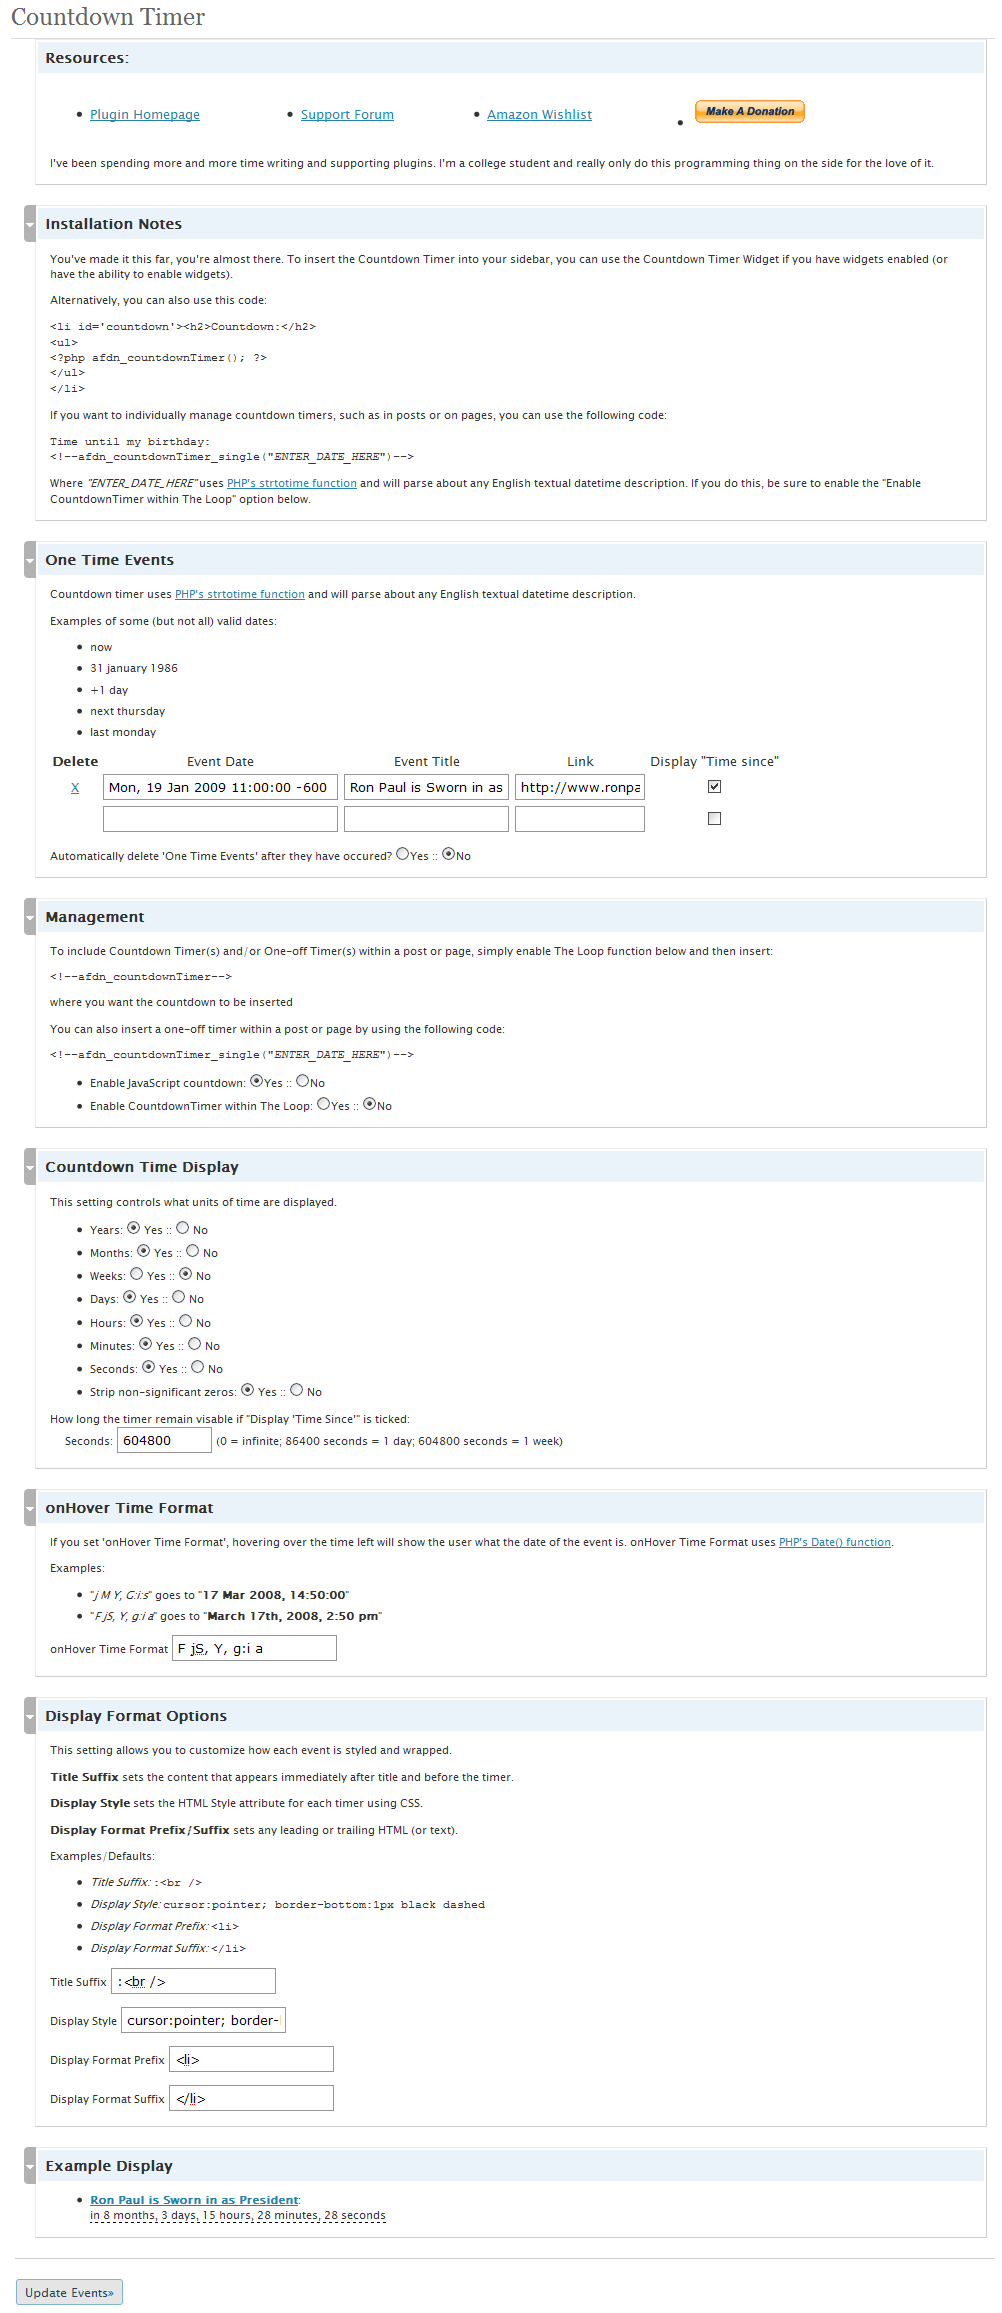
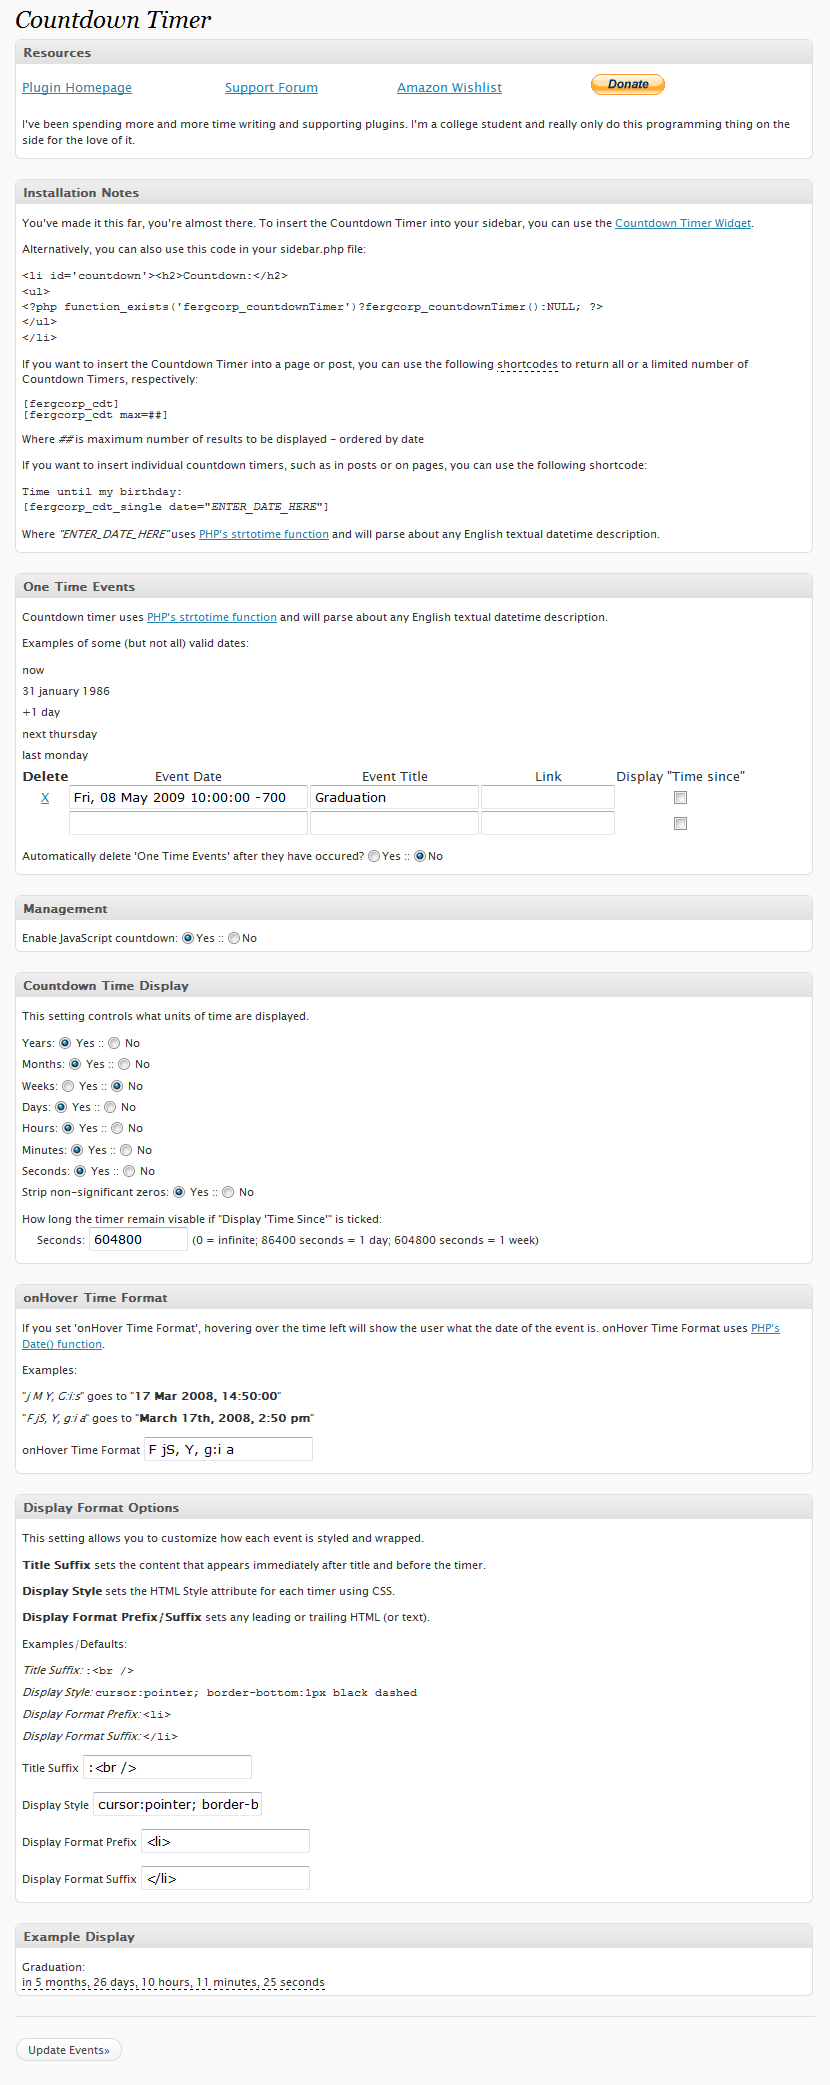
Version 2.3 release. Enjoy!
git-svn-id: https://plugins.svn.wordpress.org/countdown-timer/trunk@74805 b8457f37-d9ea-0310-8a92-e5e31aec5664

Changed region(s): [[0.0, 0.0, 0.994, 0.9976], [0.8133, 0.3741, 0.8434, 0.4053], [0.4518, 0.8106, 0.4819, 0.8417]]

diff --git a/fergcorp_countdownTimer_java.js b/fergcorp_countdownTimer_java.js
@@ -1,6 +1,6 @@
 /*******************************************************************************\
 Countdown Timer JavaScript Module
-Version 2.2.9.5 (kept in step with fergcorp_countdownTimer.php)
+Version 2.3 (kept in step with fergcorp_countdownTimer.php)
 Copyright (c) 2007-2008 Andrew Ferguson
 ---------------------------------------------------------------------------------
 This program is free software; you can redistribute it and/or

diff --git a/afdn_countdownTimer.php b/afdn_countdownTimer.php
@@ -3,7 +3,7 @@
 Plugin Name: Countdown Timer
 Plugin URI: http://www.andrewferguson.net/wordpress-plugins/countdown-timer/
 Plugin Description: Add template tags and widget to count down or up to the years, months, weeks, days, hours, minutes, and/or seconds to a particular event.
-Version: 2.2.9.7
+Version: 2.3
 Author: Andrew Ferguson
 Author URI: http://www.andrewferguson.net
 
@@ -229,7 +229,7 @@ Foundation, Inc., 51 Franklin Street, Fifth Floor, Boston, MA 02110-1301, USA.
                                         
                                         <p><?php printf(__("If you want to insert the Countdown Timer into a page or post, you can use the following <abbr %s %s>shortcodes</abbr> to return all or a limited number of Countdown Timers, respectively:", 'afdn_countdownTimer'), "title='".__('A shortcode is a WordPress-specific code that lets you do nifty things with very little effort. Shortcodes can embed files or create objects that would normally require lots of complicated, ugly code in just one line. Shortcode = shortcut.', 'afdn_countdownTimer')."'", "style='cursor:pointer; border-bottom:1px black dashed'" ); ?></p>
                                    			<code>
-													[fergcorp_cdt]<br />
+													[fergcorp_cdt]<br /><br />
                                                     [fergcorp_cdt max=##]
 											</code>
                                         <p><?php _e("Where <em>##</em> is maximum number of results to be displayed - ordered by date.", 'afdn_countdownTimer'); ?></p>   
@@ -276,6 +276,7 @@ Foundation, Inc., 51 Franklin Street, Fifth Floor, Boston, MA 02110-1301, USA.
 														<td><input type="text" size="30" name="oneTimeEvent_date<?php echo $oneTimeEvent_count; ?>" value="<?php if($fergcorp_countdownTimer_dates["oneTime"][$i]["date"] != "")echo gmdate("D, d M Y H:i:s", $fergcorp_countdownTimer_dates["oneTime"][$i]["date"] + (get_option('gmt_offset') * 3600))." ".(get_option('gmt_offset')>="0"?"+":NULL).(get_option('gmt_offset')=="0"?"00":NULL).(get_option('gmt_offset')*100); ?>" /></td>
 														<td><input type="text" size="20" name="oneTimeEvent_text<?php echo $oneTimeEvent_count; ?>" value="<?php echo htmlspecialchars(stripslashes($fergcorp_countdownTimer_dates["oneTime"][$i]["text"])); ?>" /></td>
 														<td><input type="text" size="15" name="oneTimeEvent_link<?php echo $oneTimeEvent_count; ?>" value="<?php echo $fergcorp_countdownTimer_dates["oneTime"][$i]["link"]; ?>" /></td>
+
 														<td><input type="checkbox" name="oneTimeEvent_timeSince<?php echo $oneTimeEvent_count; ?>" value="1" <?php print($fergcorp_countdownTimer_dates["oneTime"][$i]["timeSince"]==1?"checked='checked'":NULL)?>/></td>
 														</tr>
 														<?php
